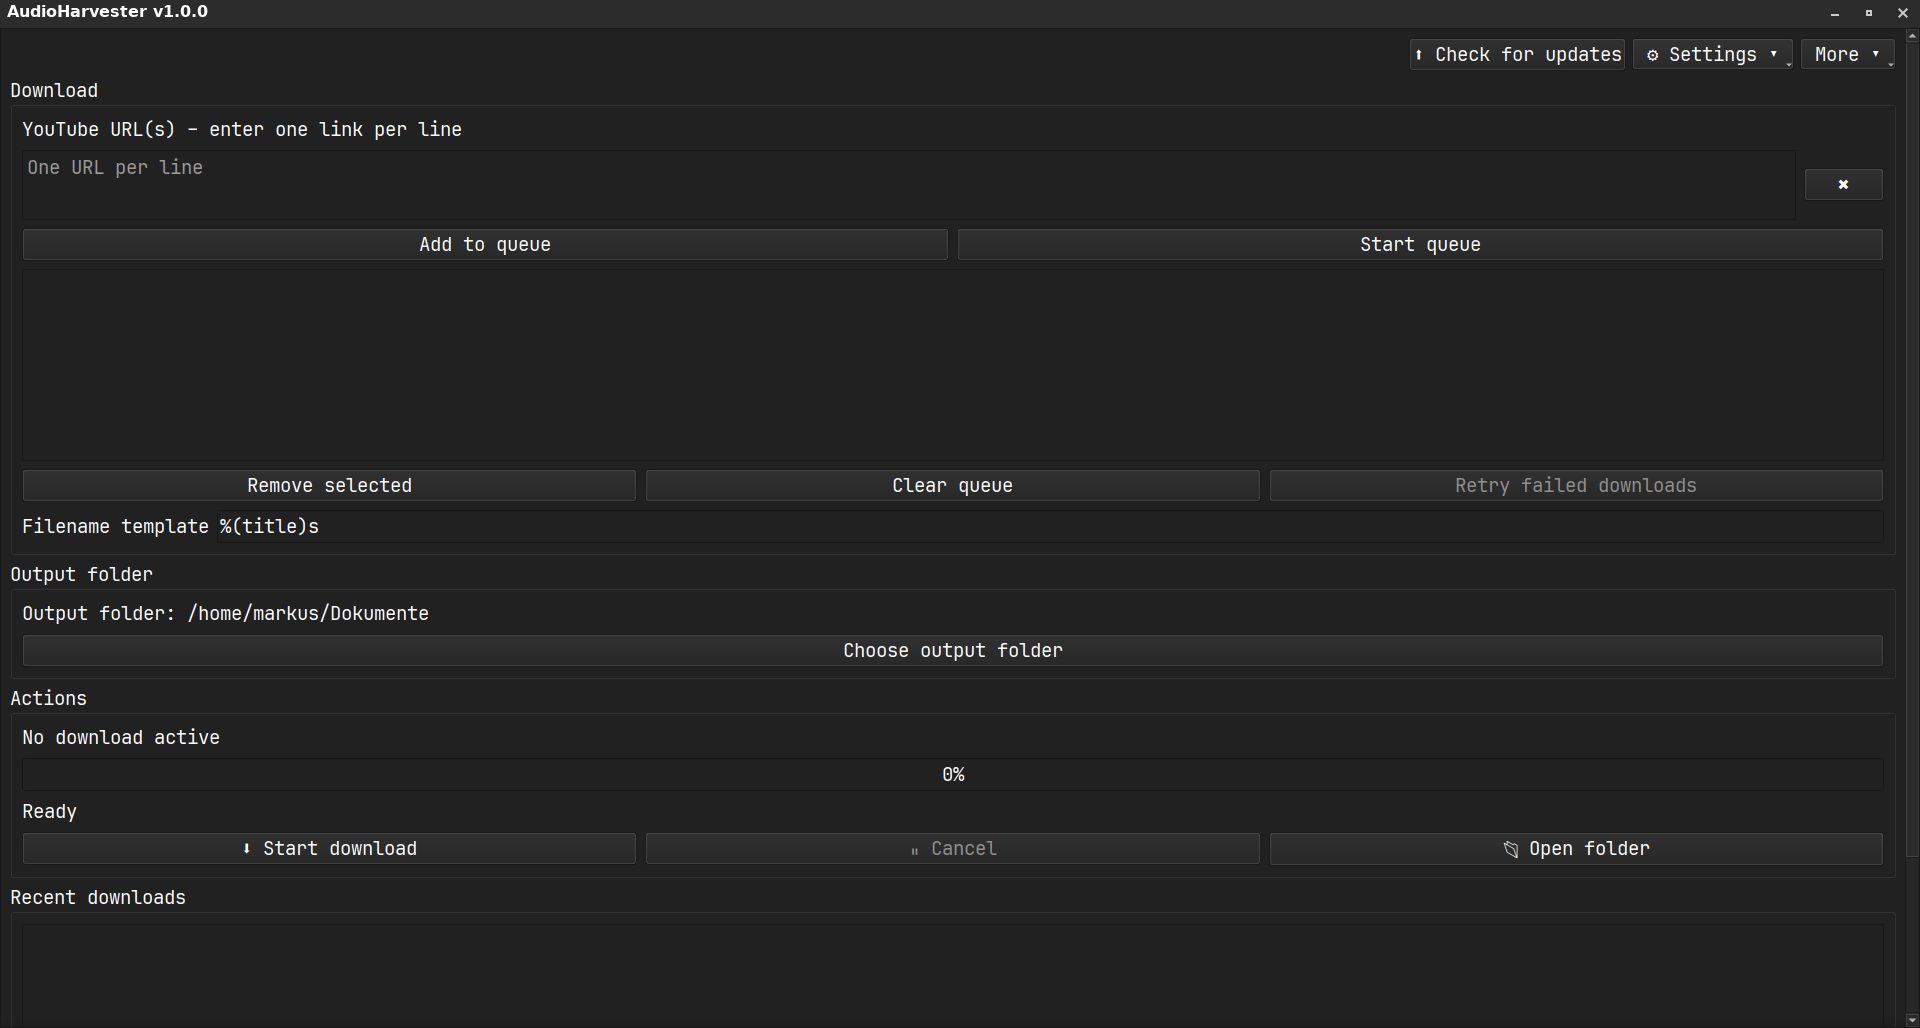
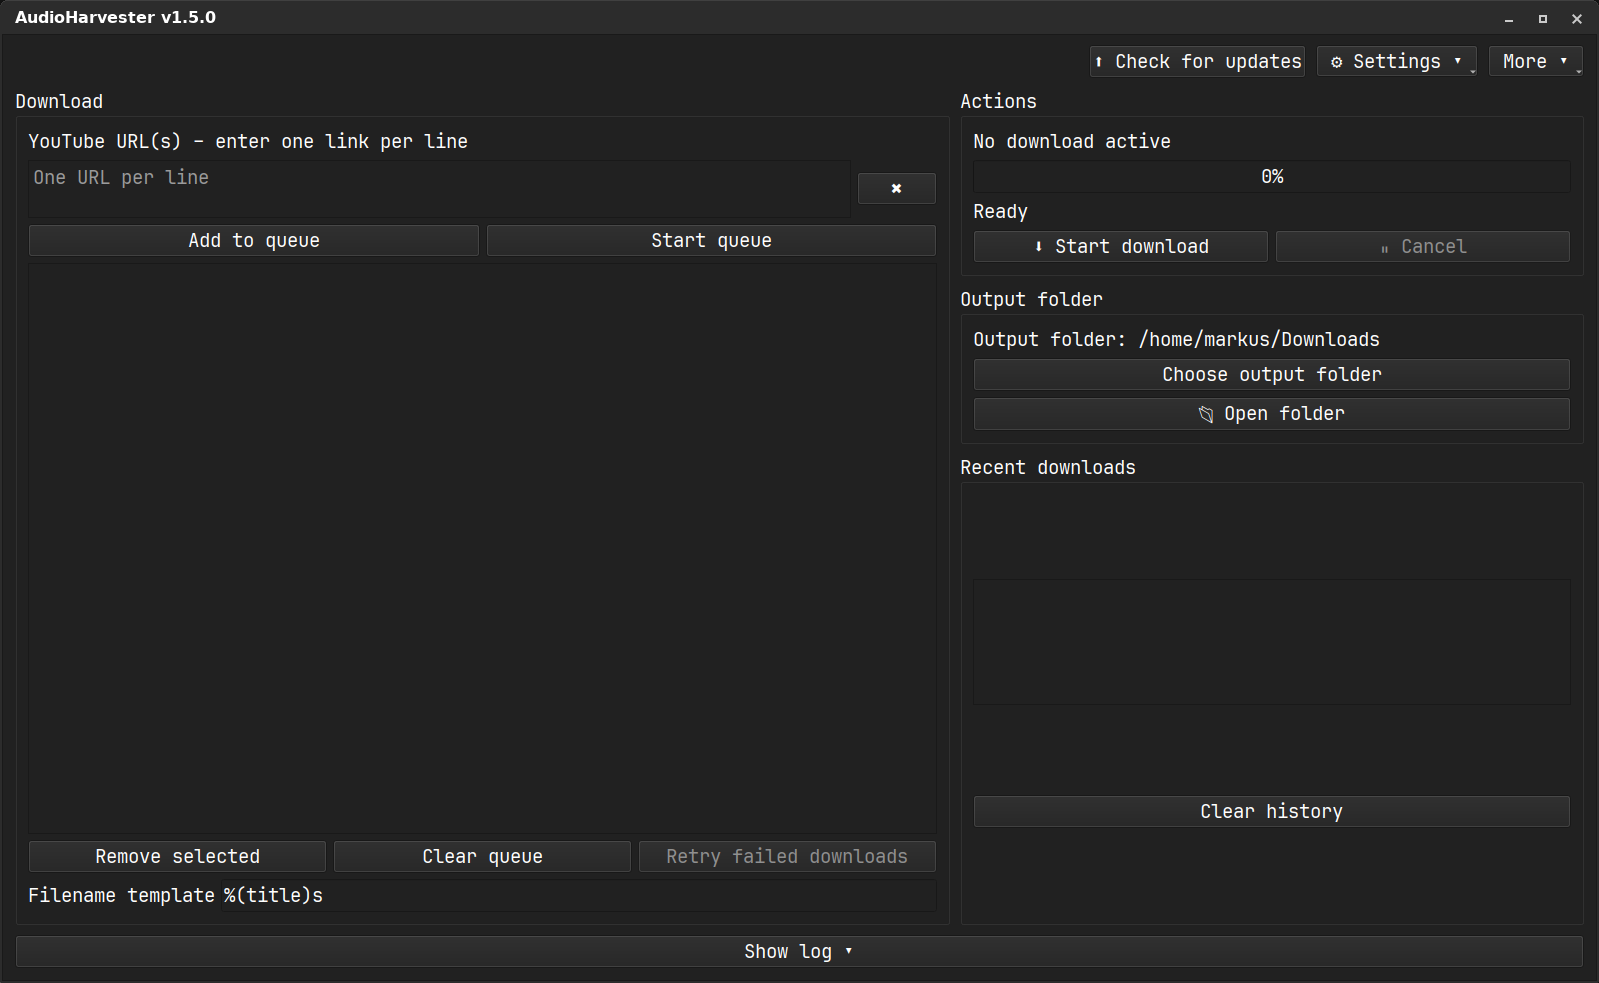
Release AudioHarvester 1.5.5

diff --git a/src/main.py b/src/main.py
@@ -76,12 +76,14 @@ class AudioHarvester(QWidget):
             max_height = max(1, available.height() - 80)
         else:
             max_width, max_height = 1200, 900
-        self.setMinimumSize(min(480, max_width), min(360, max_height))
-        width = min(settings.get("window_width", 650), max_width)
-        height = min(settings.get("window_height", 450), max_height)
+        self.setMinimumSize(min(760, max_width), min(500, max_height))
+        width = min(settings.get("window_width", 900), max_width)
+        height = min(settings.get("window_height", 600), max_height)
         self.resize(max(self.minimumWidth(), width), max(self.minimumHeight(), height))
 
         layout = QVBoxLayout()
+        layout.setContentsMargins(12, 10, 12, 12)
+        layout.setSpacing(10)
         top_bar = QHBoxLayout()
         top_bar.addStretch()
         self.update_button = QPushButton("⬆ Updates prüfen")
@@ -105,11 +107,11 @@ class AudioHarvester(QWidget):
 
         download_group = QGroupBox("Download")
         download_layout = QVBoxLayout()
-        download_layout.setSpacing(8)
+        download_layout.setContentsMargins(10, 10, 10, 10)
+        download_layout.setSpacing(6)
 
         download_group.setLayout(download_layout)
 
-        layout.addWidget(download_group)
         self.settings = load_settings()
         self.language = self.settings.get("language", "Deutsch")
         self.selected_format = self.settings.get("format", "MP3")
@@ -120,26 +122,27 @@ class AudioHarvester(QWidget):
 
         folder_group = QGroupBox("Zielordner")
         folder_layout = QVBoxLayout()
-        folder_layout.setSpacing(8)
+        folder_layout.setContentsMargins(10, 10, 10, 10)
+        folder_layout.setSpacing(6)
 
 
         folder_group.setLayout(folder_layout)
-        layout.addWidget(folder_group)
 
         actions_group = QGroupBox("Aktionen")
         actions_layout = QVBoxLayout()
-        actions_layout.setSpacing(8)
+        actions_layout.setContentsMargins(10, 10, 10, 10)
+        actions_layout.setSpacing(6)
 
         actions_group.setLayout(actions_layout)
 
-        layout.addWidget(actions_group)
 
         download_layout.addWidget(QLabel("YouTube URL(s) – mehrere Links zeilenweise"))
 
         url_layout = QHBoxLayout()
 
         self.url_input = QTextEdit()
-        self.url_input.setMaximumHeight(70)
+        self.url_input.setMinimumHeight(48)
+        self.url_input.setMaximumHeight(58)
         url_layout.addWidget(self.url_input)
 
         self.clear_url_button = QPushButton("✖")
@@ -195,6 +198,7 @@ class AudioHarvester(QWidget):
          str(Path.home() / "Musik" / "AudioHarvester")
 )
         self.output_label = QLabel(f"Zielordner: {self.output_dir}")
+        self.output_label.setWordWrap(True)
         folder_layout.addWidget(self.output_label)
 
         self.choose_folder_button = QPushButton("Zielordner auswählen")
@@ -223,7 +227,7 @@ class AudioHarvester(QWidget):
 
         self.folder_button = QPushButton("📂 Ordner öffnen")
         self.folder_button.clicked.connect(self.open_download_folder)
-        button_layout.addWidget(self.folder_button)
+        folder_layout.addWidget(self.folder_button)
 
         self.folder_button.setToolTip(
             "Öffnet den aktuellen Zielordner"
@@ -232,11 +236,14 @@ class AudioHarvester(QWidget):
         actions_layout.addLayout(button_layout)
         history_group = QGroupBox("Letzte Downloads")
         history_layout = QVBoxLayout()
-        history_layout.setSpacing(8)
+        history_layout.setContentsMargins(10, 10, 10, 10)
+        history_layout.setSpacing(6)
         
         history_group.setLayout(history_layout)
 
         self.history_list = QListWidget()
+        self.history_list.setMinimumHeight(72)
+        self.history_list.setMaximumHeight(126)
         history_layout.addWidget(self.history_list)
 
         self.history_list.itemDoubleClicked.connect(
@@ -253,8 +260,6 @@ class AudioHarvester(QWidget):
             "Löscht die Download-Historie"
         )
 
-        layout.addWidget(history_group)
-
         self.log = QTextEdit()
         self.log.setReadOnly(True)
         self.log_toggle = QPushButton()
@@ -262,6 +267,19 @@ class AudioHarvester(QWidget):
         self.log_toggle.setChecked(False)
         self.log_toggle.setMinimumHeight(32)
         self.log_toggle.toggled.connect(self.toggle_log)
+        workspace = QHBoxLayout()
+        workspace.setSpacing(10)
+        left_column = QVBoxLayout()
+        left_column.setSpacing(10)
+        left_column.addWidget(download_group, 1)
+        right_column = QVBoxLayout()
+        right_column.setSpacing(10)
+        right_column.addWidget(actions_group)
+        right_column.addWidget(folder_group)
+        right_column.addWidget(history_group, 1)
+        workspace.addLayout(left_column, 3)
+        workspace.addLayout(right_column, 2)
+        layout.addLayout(workspace, 1)
         layout.addWidget(self.log_toggle)
         self.log.hide()
         layout.addWidget(self.log)

diff --git a/src/settings.py b/src/settings.py
@@ -1,9 +1,10 @@
 import json
+import os
 from pathlib import Path
 
-PROJECT_DIR = Path(__file__).resolve().parent.parent
-
-CONFIG_DIR = PROJECT_DIR / "config"
+CONFIG_DIR = Path(
+    os.environ.get("XDG_CONFIG_HOME", Path.home() / ".config")
+) / "audioharvester"
 CONFIG_FILE = CONFIG_DIR / "settings.json"
 
 

diff --git a/src/version.py b/src/version.py
@@ -1,1 +1,1 @@
-VERSION = "1.5.0"
+VERSION = "1.5.5"

diff --git a/README.md b/README.md
@@ -11,7 +11,7 @@
 </p>
 
 <p align="center">
-  <img src="https://img.shields.io/badge/version-1.5.0-blue" alt="Version">
+  <img src="https://img.shields.io/badge/version-1.5.5-blue" alt="Version">
   <img src="https://img.shields.io/badge/platform-Linux-orange" alt="Platform">
   <img src="https://img.shields.io/badge/Debian-13-A81D33?logo=debian" alt="Debian">
   <img src="https://img.shields.io/badge/language-Python-3776AB?logo=python&logoColor=white" alt="Python">
@@ -88,7 +88,7 @@
 Download the latest release from the GitHub Releases page.
 
 ```bash
-sudo apt install ./audioharvester_1.5.0_all.deb
+sudo apt install ./audioharvester_1.5.5_all.deb
 ```
 
 Start AudioHarvester:

diff --git a/CHANGELOG.md b/CHANGELOG.md
@@ -2,6 +2,14 @@
 
 All notable changes to AudioHarvester are documented here.
 
+## 1.5.5
+
+### Fixes and interface
+
+- Save user settings in the XDG configuration directory so installed copies can start without writing to `/usr/share`.
+- Declare Python-Markdown as a Debian package dependency.
+- Reorganize the main window into a more compact two-column layout.
+
 ## 1.5.0
 
 ### Updates and interface
